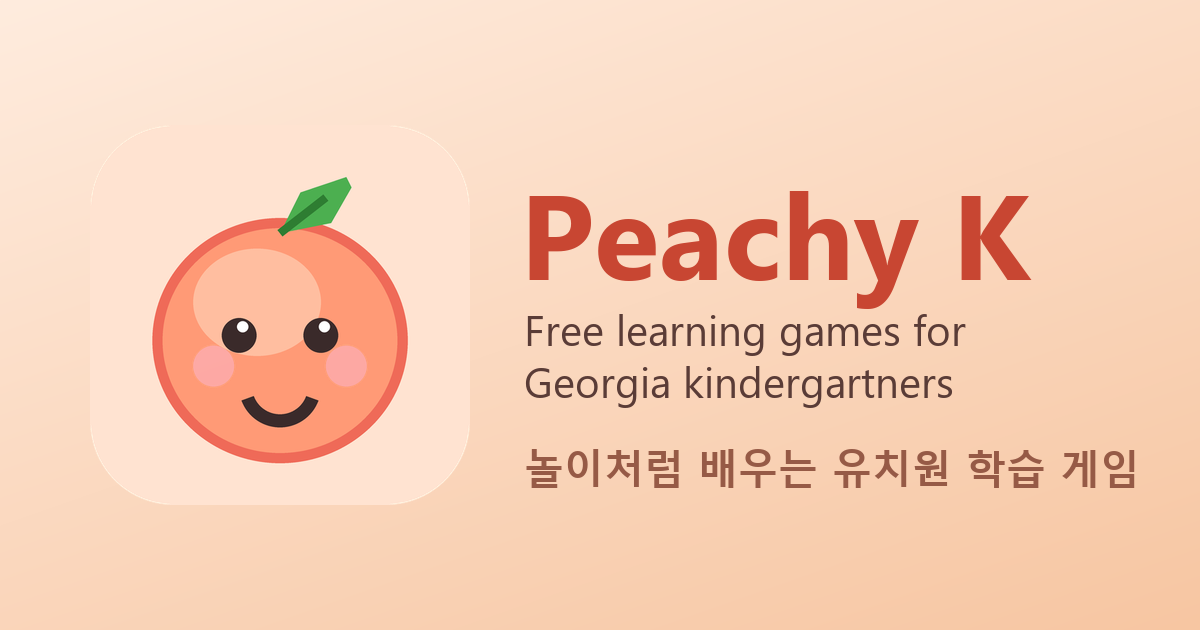
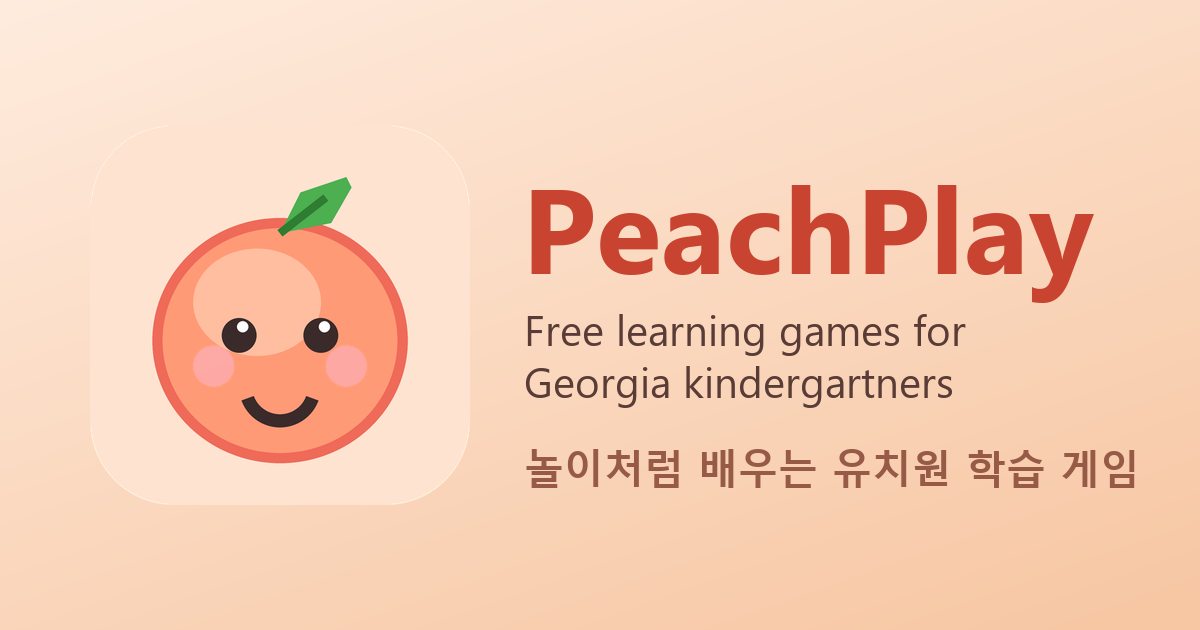
Update site

Changed region(s): [[0.4317, 0.2714, 0.925, 0.5127]]

diff --git a/index.html b/index.html
@@ -4,11 +4,11 @@
 <meta charset="utf-8">
 <meta name="viewport" content="width=device-width, initial-scale=1">
 <script>/* opened as an installed app: go straight to the games */try{if((window.matchMedia&&matchMedia("(display-mode: standalone)").matches)||navigator.standalone)location.replace("play/")}catch(e){}</script>
-<title>Peachy K – Free learning games for Georgia kindergartners</title>
+<title>PeachPlay – Free learning games for Georgia kindergartners</title>
 <meta name="description" content="Free, ad-free learning games for kindergartners: math, reading, writing, Georgia, science and thinking games. English and Korean. No sign-up. Open the link and play.">
 <meta name="theme-color" content="#ff9a76">
 <meta property="og:type" content="website">
-<meta property="og:title" content="Peachy K – Free learning games for Georgia kindergartners">
+<meta property="og:title" content="PeachPlay – Free learning games for Georgia kindergartners">
 <meta property="og:description" content="70+ short games for math, reading, writing, Georgia and more. English and Korean. Free, no ads, no sign-up.">
 <meta property="og:image" content="https://altair-research.github.io/peachy-k/og.png">
 <meta property="og:url" content="https://altair-research.github.io/peachy-k/">
@@ -74,7 +74,7 @@ footer{padding:30px 0 50px;text-align:center;color:var(--mute);font-size:14px}
 </head>
 <body>
 <header class="top"><div class="wrap">
-  <a class="brand" href="./"><img src="icon-192.png" alt="">Peachy K</a>
+  <a class="brand" href="./"><img src="icon-192.png" alt="">PeachPlay</a>
   <button class="lang" id="lang" aria-label="Language">한국어</button>
 </div></header>
 
@@ -85,7 +85,7 @@ footer{padding:30px 0 50px;text-align:center;color:var(--mute);font-size:14px}
     <circle cx="19" cy="40" r="4.2" fill="#ff7f8a" opacity=".55"/><circle cx="45" cy="40" r="4.2" fill="#ff7f8a" opacity=".55"/><circle cx="24" cy="34" r="3.4" fill="#3a2a2a"/><circle cx="40" cy="34" r="3.4" fill="#3a2a2a"/><circle cx="25.2" cy="32.8" r="1.1" fill="#fff"/><circle cx="41.2" cy="32.8" r="1.1" fill="#fff"/><path d="M24 43q8 9 16 0" stroke="#3a2a2a" stroke-width="2.6" fill="none" stroke-linecap="round"/></svg>
   <div>
     <h1><span class="en">Learning games that feel like play.</span><span class="ko">놀이처럼 배우는 학습 게임</span></h1>
-    <p class="lead"><span class="en">Peachy K is a free, ad-free game app for kindergartners: math, reading, writing, Georgia, science and thinking games. English and Korean, built around Georgia and Gwinnett kindergarten standards.</span><span class="ko">Peachy K는 유치원(K) 아이를 위한 무료, 광고 없는 학습 게임이에요. 수학, 읽기, 쓰기, 조지아, 과학, 두뇌 게임을 영어와 한국어로 즐길 수 있고, 조지아·Gwinnett 유치원 학습 기준을 바탕으로 만들었어요.</span></p>
+    <p class="lead"><span class="en">PeachPlay is a free, ad-free game app for kindergartners: math, reading, writing, Georgia, science and thinking games. English and Korean, built around Georgia and Gwinnett kindergarten standards.</span><span class="ko">PeachPlay는 유치원(K) 아이를 위한 무료, 광고 없는 학습 게임이에요. 수학, 읽기, 쓰기, 조지아, 과학, 두뇌 게임을 영어와 한국어로 즐길 수 있고, 조지아·Gwinnett 유치원 학습 기준을 바탕으로 만들었어요.</span></p>
     <a class="cta" href="play/">▶ <span class="en">Play now</span><span class="ko">지금 시작하기</span></a>
     <a class="cta2" href="#install"><span class="en">Add it to your home screen</span><span class="ko">홈 화면에 추가하는 방법</span></a>
     <div class="badges"><span><span class="en">Free</span><span class="ko">무료</span></span><span><span class="en">No ads</span><span class="ko">광고 없음</span></span><span><span class="en">No sign-up</span><span class="ko">가입 없음</span></span><span><span class="en">Works offline</span><span class="ko">오프라인 가능</span></span><span>English · 한국어</span></div>
@@ -141,18 +141,18 @@ footer{padding:30px 0 50px;text-align:center;color:var(--mute);font-size:14px}
 </div></section>
 
 <section><div class="wrap">
-  <div style="text-align:center"><a class="cta" href="play/">▶ <span class="en">Play Peachy K</span><span class="ko">Peachy K 시작하기</span></a></div>
-  <p class="note" style="margin-top:28px"><span class="en">Peachy K is made independently by Altair Research Lab. It is not affiliated with, endorsed by, or sponsored by Gwinnett County Public Schools, the Georgia Department of Education, or any publisher. It follows publicly available kindergarten learning standards, and every question is original. Peachy K is for practice and fun. It is not a test, a diagnosis, or an admissions tool.</span><span class="ko">Peachy K는 Altair Research Lab이 독립적으로 만들었으며 Gwinnett County Public Schools, 조지아 교육부 또는 어떤 출판사와도 관련이 없고 후원이나 승인을 받지 않았어요. 공개된 유치원 학습 기준을 참고했고 모든 문제는 직접 만든 문제예요. 연습과 놀이를 위한 앱이며 시험, 진단, 입학 선발 도구가 아니에요.</span></p>
+  <div style="text-align:center"><a class="cta" href="play/">▶ <span class="en">Play PeachPlay</span><span class="ko">PeachPlay 시작하기</span></a></div>
+  <p class="note" style="margin-top:28px"><span class="en">PeachPlay is made independently by Altair Research Lab. It is not affiliated with, endorsed by, or sponsored by Gwinnett County Public Schools, the Georgia Department of Education, or any publisher. It follows publicly available kindergarten learning standards, and every question is original. PeachPlay is for practice and fun. It is not a test, a diagnosis, or an admissions tool.</span><span class="ko">PeachPlay는 Altair Research Lab이 독립적으로 만들었으며 Gwinnett County Public Schools, 조지아 교육부 또는 어떤 출판사와도 관련이 없고 후원이나 승인을 받지 않았어요. 공개된 유치원 학습 기준을 참고했고 모든 문제는 직접 만든 문제예요. 연습과 놀이를 위한 앱이며 시험, 진단, 입학 선발 도구가 아니에요.</span></p>
 </div></section>
 </main>
 
-<footer><div class="wrap">© 2026 Altair Research Lab · Peachy K · <a href="privacy.html"><span class="en">Privacy</span><span class="ko">개인정보</span></a> · <a href="terms.html"><span class="en">Terms</span><span class="ko">약관</span></a></div></footer>
+<footer><div class="wrap">© 2026 Altair Research Lab · PeachPlay · <a href="privacy.html"><span class="en">Privacy</span><span class="ko">개인정보</span></a> · <a href="terms.html"><span class="en">Terms</span><span class="ko">약관</span></a></div></footer>
 
 <script>
 (function(){
   var KEY='peachy-landing-lang',root=document.documentElement,btn=document.getElementById('lang'),lang='en';
   try{var s=localStorage.getItem(KEY);if(s)lang=s;else if((navigator.language||'').toLowerCase().indexOf('ko')===0)lang='ko'}catch(e){}
-  function apply(){root.lang=lang;btn.textContent=lang==='en'?'한국어':'English';document.title=lang==='en'?'Peachy K – Free learning games for Georgia kindergartners':'Peachy K – 조지아 유치원 아이를 위한 무료 학습 게임'}
+  function apply(){root.lang=lang;btn.textContent=lang==='en'?'한국어':'English';document.title=lang==='en'?'PeachPlay – Free learning games for Georgia kindergartners':'PeachPlay – 조지아 유치원 아이를 위한 무료 학습 게임'}
   btn.onclick=function(){lang=lang==='en'?'ko':'en';try{localStorage.setItem(KEY,lang)}catch(e){}apply()};
   apply();
   var url=document.getElementById('shareUrl'),msg=document.getElementById('copied');
@@ -165,7 +165,7 @@ footer{padding:30px 0 50px;text-align:center;color:var(--mute);font-size:14px}
   };
   url.onfocus=function(){url.select()};
   var sb=document.getElementById('shareBtn');
-  if(navigator.share){sb.hidden=false;sb.onclick=function(){navigator.share({title:'Peachy K',text:lang==='en'?'Free learning games for kindergartners':'유치원 아이를 위한 무료 학습 게임',url:url.value}).catch(function(){})}}
+  if(navigator.share){sb.hidden=false;sb.onclick=function(){navigator.share({title:'PeachPlay',text:lang==='en'?'Free learning games for kindergartners':'유치원 아이를 위한 무료 학습 게임',url:url.value}).catch(function(){})}}
 })();
 </script>
 </body>

diff --git a/terms.html b/terms.html
@@ -3,8 +3,8 @@
 <head>
 <meta charset="utf-8">
 <meta name="viewport" content="width=device-width, initial-scale=1">
-<title>Terms of Use – Peachy K</title>
-<meta name="description" content="Peachy K terms of use: free educational games, provided as is, independent from any school district.">
+<title>Terms of Use – PeachPlay</title>
+<meta name="description" content="PeachPlay terms of use: free educational games, provided as is, independent from any school district.">
 <meta name="theme-color" content="#ff9a76">
 <link rel="icon" href="icon.svg" type="image/svg+xml">
 <link rel="apple-touch-icon" href="apple-touch-icon.png">
@@ -34,7 +34,7 @@ footer{padding:24px 0 50px;text-align:center;color:var(--mute);font-size:14px}
 </head>
 <body>
 <header class="top"><div class="wrap">
-  <a class="brand" href="./"><img src="icon-192.png" alt="">Peachy K</a>
+  <a class="brand" href="./"><img src="icon-192.png" alt="">PeachPlay</a>
   <button class="lang" id="lang" aria-label="Language">한국어</button>
 </div></header>
 
@@ -42,11 +42,11 @@ footer{padding:24px 0 50px;text-align:center;color:var(--mute);font-size:14px}
 
 <div class="en">
 <h1>Terms of Use</h1>
-<p class="meta">Effective October 11, 2026 · Peachy K, operated by Altair Research Lab</p>
+<p class="meta">Effective October 11, 2026 · PeachPlay, operated by Altair Research Lab</p>
 <p class="warn">Plain-language terms written by the app maker. They are not legal advice and have not been reviewed by a lawyer.</p>
 
-<h2>Using Peachy K</h2>
-<p>Peachy K is a free set of learning games for young children, meant to be used with a parent or guardian nearby. By using it you agree to these terms. If you do not agree, please do not use it.</p>
+<h2>Using PeachPlay</h2>
+<p>PeachPlay is a free set of learning games for young children, meant to be used with a parent or guardian nearby. By using it you agree to these terms. If you do not agree, please do not use it.</p>
 
 <h2>Practice, not a test</h2>
 <ul>
@@ -55,7 +55,7 @@ footer{padding:24px 0 50px;text-align:center;color:var(--mute);font-size:14px}
 </ul>
 
 <h2>Independent from schools</h2>
-<p>Peachy K is made independently by Altair Research Lab. It is not affiliated with, endorsed by, or sponsored by Gwinnett County Public Schools, the Georgia Department of Education, or any publisher. Standards are referred to only to describe what the games practice. Names and marks belong to their owners.</p>
+<p>PeachPlay is made independently by Altair Research Lab. It is not affiliated with, endorsed by, or sponsored by Gwinnett County Public Schools, the Georgia Department of Education, or any publisher. Standards are referred to only to describe what the games practice. Names and marks belong to their owners.</p>
 
 <h2>Your data and backups</h2>
 <p>Progress is stored only on your device (see the <a href="privacy.html">Privacy Policy</a>). You are responsible for your device and for saving backups if you want to keep progress. Clearing browser data, a device change or a browser problem can erase it, and we cannot recover it.</p>
@@ -72,11 +72,11 @@ footer{padding:24px 0 50px;text-align:center;color:var(--mute);font-size:14px}
 
 <div class="ko">
 <h1>이용 약관</h1>
-<p class="meta">시행일 2026년 10월 11일 · Peachy K (운영: Altair Research Lab)</p>
+<p class="meta">시행일 2026년 10월 11일 · PeachPlay (운영: Altair Research Lab)</p>
 <p class="warn">앱 제작자가 쉽게 풀어 쓴 약관이에요. 법률 자문이 아니며 변호사의 검토를 받지 않았어요.</p>
 
-<h2>Peachy K 사용</h2>
-<p>Peachy K는 어린아이를 위한 무료 학습 게임이며, 보호자가 곁에 있는 상태에서 쓰도록 만들었어요. 사용하면 이 약관에 동의한 것으로 봅니다. 동의하지 않으면 사용하지 말아 주세요.</p>
+<h2>PeachPlay 사용</h2>
+<p>PeachPlay는 어린아이를 위한 무료 학습 게임이며, 보호자가 곁에 있는 상태에서 쓰도록 만들었어요. 사용하면 이 약관에 동의한 것으로 봅니다. 동의하지 않으면 사용하지 말아 주세요.</p>
 
 <h2>연습이지 시험이 아니에요</h2>
 <ul>
@@ -85,7 +85,7 @@ footer{padding:24px 0 50px;text-align:center;color:var(--mute);font-size:14px}
 </ul>
 
 <h2>학교와는 별개예요</h2>
-<p>Peachy K는 Altair Research Lab이 독립적으로 만들었어요. Gwinnett County Public Schools, Georgia Department of Education, 어떤 출판사와도 제휴·승인·후원 관계가 없어요. 교육 기준은 게임이 무엇을 연습하는지 설명할 때만 언급해요. 이름과 상표는 각 소유자의 것이에요.</p>
+<p>PeachPlay는 Altair Research Lab이 독립적으로 만들었어요. Gwinnett County Public Schools, Georgia Department of Education, 어떤 출판사와도 제휴·승인·후원 관계가 없어요. 교육 기준은 게임이 무엇을 연습하는지 설명할 때만 언급해요. 이름과 상표는 각 소유자의 것이에요.</p>
 
 <h2>데이터와 백업</h2>
 <p>기록은 기기에만 저장돼요(<a href="privacy.html">개인정보 처리방침</a> 참고). 기기 관리와, 기록을 보관하려면 백업을 저장하는 일은 이용자의 몫이에요. 브라우저 데이터 삭제, 기기 교체, 브라우저 문제로 기록이 지워질 수 있고 저희가 복구할 수 없어요.</p>
@@ -103,13 +103,13 @@ footer{padding:24px 0 50px;text-align:center;color:var(--mute);font-size:14px}
 <p><a href="privacy.html"><span class="en">Privacy Policy</span><span class="ko">개인정보 처리방침</span></a> · <a href="./"><span class="en">Home</span><span class="ko">처음으로</span></a></p>
 </div></main>
 
-<footer><div class="wrap">© 2026 Altair Research Lab · Peachy K</div></footer>
+<footer><div class="wrap">© 2026 Altair Research Lab · PeachPlay</div></footer>
 
 <script>
 (function(){
   var KEY='peachy-landing-lang',root=document.documentElement,btn=document.getElementById('lang'),lang='en';
   try{var s=localStorage.getItem(KEY);if(s)lang=s;else if((navigator.language||'').toLowerCase().indexOf('ko')===0)lang='ko'}catch(e){}
-  function apply(){root.lang=lang;btn.textContent=lang==='en'?'한국어':'English';document.title=lang==='en'?'Terms of Use – Peachy K':'이용 약관 – Peachy K'}
+  function apply(){root.lang=lang;btn.textContent=lang==='en'?'한국어':'English';document.title=lang==='en'?'Terms of Use – PeachPlay':'이용 약관 – PeachPlay'}
   btn.onclick=function(){lang=lang==='en'?'ko':'en';try{localStorage.setItem(KEY,lang)}catch(e){}apply()};
   apply();
 })();

diff --git a/privacy.html b/privacy.html
@@ -3,8 +3,8 @@
 <head>
 <meta charset="utf-8">
 <meta name="viewport" content="width=device-width, initial-scale=1">
-<title>Privacy Policy – Peachy K</title>
-<meta name="description" content="Peachy K privacy policy: progress stays on your device, no accounts, no ads, no tracking.">
+<title>Privacy Policy – PeachPlay</title>
+<meta name="description" content="PeachPlay privacy policy: progress stays on your device, no accounts, no ads, no tracking.">
 <meta name="theme-color" content="#ff9a76">
 <link rel="icon" href="icon.svg" type="image/svg+xml">
 <link rel="apple-touch-icon" href="apple-touch-icon.png">
@@ -34,7 +34,7 @@ footer{padding:24px 0 50px;text-align:center;color:var(--mute);font-size:14px}
 </head>
 <body>
 <header class="top"><div class="wrap">
-  <a class="brand" href="./"><img src="icon-192.png" alt="">Peachy K</a>
+  <a class="brand" href="./"><img src="icon-192.png" alt="">PeachPlay</a>
   <button class="lang" id="lang" aria-label="Language">한국어</button>
 </div></header>
 
@@ -42,10 +42,10 @@ footer{padding:24px 0 50px;text-align:center;color:var(--mute);font-size:14px}
 
 <div class="en">
 <h1>Privacy Policy</h1>
-<p class="meta">Effective October 11, 2026 · Peachy K, operated by Altair Research Lab</p>
+<p class="meta">Effective October 11, 2026 · PeachPlay, operated by Altair Research Lab</p>
 <p class="warn">Plain-language summary written by the app maker. It is not legal advice and has not been reviewed by a lawyer.</p>
 
-<div class="box"><b>In short:</b> Peachy K has no accounts, no ads and no tracking. Your child's progress is saved only in this device's browser. We do not receive it.</div>
+<div class="box"><b>In short:</b> PeachPlay has no accounts, no ads and no tracking. Your child's progress is saved only in this device's browser. We do not receive it.</div>
 
 <h2>What stays on your device</h2>
 <ul>
@@ -76,7 +76,7 @@ footer{padding:24px 0 50px;text-align:center;color:var(--mute);font-size:14px}
 </ul>
 
 <h2>Children</h2>
-<p>Peachy K is meant to be used by children with a parent or guardian nearby. Grown-up features are in the "For grown-ups" screen. We do not knowingly collect personal information from children. If you believe we received a child's information, write to us and we will delete it.</p>
+<p>PeachPlay is meant to be used by children with a parent or guardian nearby. Grown-up features are in the "For grown-ups" screen. We do not knowingly collect personal information from children. If you believe we received a child's information, write to us and we will delete it.</p>
 
 <h2>Your choices</h2>
 <p>You can delete everything at any time from the app or by clearing site data in your browser. Since we hold no copy, there is nothing for us to delete on our side except e-mails you sent us, which we delete on request.</p>
@@ -87,10 +87,10 @@ footer{padding:24px 0 50px;text-align:center;color:var(--mute);font-size:14px}
 
 <div class="ko">
 <h1>개인정보 처리방침</h1>
-<p class="meta">시행일 2026년 10월 11일 · Peachy K (운영: Altair Research Lab)</p>
+<p class="meta">시행일 2026년 10월 11일 · PeachPlay (운영: Altair Research Lab)</p>
 <p class="warn">앱 제작자가 쉽게 풀어 쓴 안내문이에요. 법률 자문이 아니며 변호사의 검토를 받지 않았어요.</p>
 
-<div class="box"><b>한마디로:</b> Peachy K에는 계정, 광고, 추적이 없어요. 아이의 기록은 이 기기의 브라우저에만 저장되고, 저희는 받지 않아요.</div>
+<div class="box"><b>한마디로:</b> PeachPlay에는 계정, 광고, 추적이 없어요. 아이의 기록은 이 기기의 브라우저에만 저장되고, 저희는 받지 않아요.</div>
 
 <h2>기기 안에만 저장되는 것</h2>
 <ul>
@@ -121,7 +121,7 @@ footer{padding:24px 0 50px;text-align:center;color:var(--mute);font-size:14px}
 </ul>
 
 <h2>아이들</h2>
-<p>Peachy K는 보호자가 곁에 있는 상태에서 쓰도록 만들었어요. 보호자용 기능은 '보호자용' 화면에 있어요. 아이의 개인정보를 알면서 수집하지 않아요. 아이 정보가 저희에게 전달됐다고 생각되면 알려 주세요. 삭제할게요.</p>
+<p>PeachPlay는 보호자가 곁에 있는 상태에서 쓰도록 만들었어요. 보호자용 기능은 '보호자용' 화면에 있어요. 아이의 개인정보를 알면서 수집하지 않아요. 아이 정보가 저희에게 전달됐다고 생각되면 알려 주세요. 삭제할게요.</p>
 
 <h2>선택권</h2>
 <p>앱에서 또는 브라우저 사이트 데이터를 지워서 언제든 모두 삭제할 수 있어요. 저희에게는 사본이 없으므로, 보내 주신 이메일 외에 저희 쪽에서 지울 것은 없고 이메일도 요청하시면 삭제해요.</p>
@@ -133,13 +133,13 @@ footer{padding:24px 0 50px;text-align:center;color:var(--mute);font-size:14px}
 <p><a href="terms.html"><span class="en">Terms of Use</span><span class="ko">이용 약관</span></a> · <a href="./"><span class="en">Home</span><span class="ko">처음으로</span></a></p>
 </div></main>
 
-<footer><div class="wrap">© 2026 Altair Research Lab · Peachy K</div></footer>
+<footer><div class="wrap">© 2026 Altair Research Lab · PeachPlay</div></footer>
 
 <script>
 (function(){
   var KEY='peachy-landing-lang',root=document.documentElement,btn=document.getElementById('lang'),lang='en';
   try{var s=localStorage.getItem(KEY);if(s)lang=s;else if((navigator.language||'').toLowerCase().indexOf('ko')===0)lang='ko'}catch(e){}
-  function apply(){root.lang=lang;btn.textContent=lang==='en'?'한국어':'English';document.title=lang==='en'?'Privacy Policy – Peachy K':'개인정보 처리방침 – Peachy K'}
+  function apply(){root.lang=lang;btn.textContent=lang==='en'?'한국어':'English';document.title=lang==='en'?'Privacy Policy – PeachPlay':'개인정보 처리방침 – PeachPlay'}
   btn.onclick=function(){lang=lang==='en'?'ko':'en';try{localStorage.setItem(KEY,lang)}catch(e){}apply()};
   apply();
 })();

diff --git a/play/backup.js b/play/backup.js
@@ -8,7 +8,7 @@ const BK = {
   save: B('Save backup file', '백업 파일 저장'), copy: B('Copy backup code', '백업 코드 복사'), copied: B('Copied!', '복사됐어요!'),
   load: B('Restore from file', '파일에서 복원'), paste: B('Restore from code', '코드로 복원'), pasteHint: B('Paste backup code here', '백업 코드를 여기에 붙여넣기'),
   ask: B('Replace ALL progress on this device with the backup? This cannot be undone.', '이 기기의 모든 기록을 백업 내용으로 바꿀까요? 되돌릴 수 없어요.'),
-  ok: B('Restored! Reloading…', '복원했어요! 다시 불러옵니다…'), bad: B('That does not look like a Peachy backup.', 'Peachy 백업이 아니에요.'), full: B('Could not save on this device (storage full or blocked).', '이 기기에 저장하지 못했어요(저장 공간 부족 또는 차단).'),
+  ok: B('Restored! Reloading…', '복원했어요! 다시 불러옵니다…'), bad: B('That does not look like a PeachPlay backup.', 'PeachPlay 백업이 아니에요.'), full: B('Could not save on this device (storage full or blocked).', '이 기기에 저장하지 못했어요(저장 공간 부족 또는 차단).'),
   fbTitle: B('Send feedback', '의견 보내기'), fbNote: B('Opens your e-mail app with a draft to the app maker. Nothing is sent until you press Send in your mail app. No tracking.', '이메일 앱에 초안이 열려요. 메일 앱에서 보내기를 누르기 전에는 아무것도 전송되지 않고, 추적도 없어요.'),
   fbKind: B('Type', '종류'), kinds: [B('Bug / something broke', '오류 / 고장'), B('Idea / request', '아이디어 / 요청'), B('Question', '질문'), B('Other', '기타')],
   fbMsg: B('What happened? What would you like?', '무슨 일이 있었나요? 바라는 점은요?'),
@@ -40,7 +40,7 @@ function backupApply(o, say2) {
   } catch (e) { console.warn('[peachy] restore failed', e); say2(L(BK.full)); }
 }
 function feedbackBody(msg, dev, prog) {
-  const lines = [msg.trim(), '', '---', `Peachy K v${APP_VERSION} (${APP_BUILD})`];
+  const lines = [msg.trim(), '', '---', `PeachPlay v${APP_VERSION} (${APP_BUILD})`];
   if (dev) lines.push(`Browser: ${navigator.userAgent}`, `Screen: ${screen.width}x${screen.height} @${window.devicePixelRatio || 1}, window ${innerWidth}x${innerHeight}`, `Language: ${navigator.language} / app ${S.lang}`, `Installed app: ${(matchMedia('(display-mode: standalone)').matches || navigator.standalone) ? 'yes' : 'no'}`);
   if (prog) { let r = 0, w = 0, g = 0; Object.values(S.stats || {}).forEach(s => { r += s.right; w += s.wrong; if (s.right + s.wrong) g++; }); lines.push(`Progress (current child): ${g} games tried, ${r} right, ${w} missed`); }
   return lines.join('\n');
@@ -75,6 +75,6 @@ function backupBind() {
   $('#bkFile').onchange = (e) => { const f = e.target.files[0]; if (!f) return; if (f.size > 5e6) return msg(L(BK.bad)); const r = new FileReader(); r.onload = () => restore(r.result); r.onerror = () => msg(L(BK.bad)); r.readAsText(f); e.target.value = ''; };
   $('#bkPaste').onclick = () => restore($('#bkText').value);
   const draft = () => `${L(BK.kinds[+$('#fbKind').value])}\n\n${feedbackBody($('#fbMsg').value, $('#fbDev').checked, $('#fbProg').checked)}`;
-  $('#fbSend').onclick = () => { location.href = `mailto:${FEEDBACK_EMAIL}?subject=${encodeURIComponent('Peachy K feedback v' + APP_VERSION)}&body=${encodeURIComponent(draft())}`; };
+  $('#fbSend').onclick = () => { location.href = `mailto:${FEEDBACK_EMAIL}?subject=${encodeURIComponent('PeachPlay feedback v' + APP_VERSION)}&body=${encodeURIComponent(draft())}`; };
   $('#fbCopy').onclick = () => copyText(draft(), ok => msg(ok ? L(BK.copied) : ''));
 }

diff --git a/play/faq.js b/play/faq.js
@@ -1,7 +1,7 @@
 'use strict';
 // Help & Q&A screen (bilingual). Keep answers short and honest; update when features change.
 const FAQ = [
-  [B('What is Peachy K?', 'Peachy K는 무엇인가요?'), B('Free, ad-free learning games for Georgia kindergarteners. The topics follow the Georgia / Gwinnett kindergarten standards (AKS). It is made independently and is not affiliated with Gwinnett County Public Schools or any textbook publisher.', '조지아 유치원(K) 아이를 위한 무료, 광고 없는 학습 게임이에요. 조지아/Gwinnett K 표준(AKS) 주제를 따라요. 독립적으로 만들었고 Gwinnett County Public Schools나 교재 출판사와 관련이 없어요.'), 'start'],
+  [B('What is PeachPlay?', 'PeachPlay는 무엇인가요?'), B('Free, ad-free learning games for Georgia kindergarteners. The topics follow the Georgia / Gwinnett kindergarten standards (AKS). It is made independently and is not affiliated with Gwinnett County Public Schools or any textbook publisher.', '조지아 유치원(K) 아이를 위한 무료, 광고 없는 학습 게임이에요. 조지아/Gwinnett K 표준(AKS) 주제를 따라요. 독립적으로 만들었고 Gwinnett County Public Schools나 교재 출판사와 관련이 없어요.'), 'start'],
   [B('What does "Surprise me!" do?', '"Surprise me!"는 무엇을 하나요?'), B('It plays a mix of different games, 3 questions each, one after another. If there are Peachy\'s picks, they show up more often. It keeps going until you press the Home button. It does not give stickers (stickers come from finishing one full round of a game).', '여러 게임을 섞어서 게임마다 3문제씩 차례로 풀게 해요. 피치의 추천 게임이 있으면 더 자주 나와요. 홈 버튼을 누를 때까지 계속돼요. 스티커는 주지 않아요(스티커는 한 게임을 한 판 끝까지 했을 때 받아요).'), 'play'],
   [B('What are peaches and baskets?', '복숭아와 바구니는 무엇인가요?'), B('You win a 🍑 peach each time you answer right on the first try. 10 peaches fill a 🧺 basket. They are shown at the top of the screen.', '처음 시도에 맞힐 때마다 🍑 복숭아를 받아요. 복숭아 10개가 모이면 🧺 바구니 1개가 돼요. 화면 맨 위에 보여요.'), 'play'],
   [B('How do I get stickers?', '스티커는 어떻게 받나요?'), B('Finish one full round (10 questions) of a game and you win a new sticker. There are 40 stickers. Tap the 🏆 at the top to see your sticker book.', '한 게임을 한 판(10문제) 끝까지 하면 새 스티커를 받아요. 스티커는 40종이에요. 맨 위의 🏆를 누르면 스티커북을 볼 수 있어요.'), 'play'],

diff --git a/play/profiles.js b/play/profiles.js
@@ -13,7 +13,7 @@ const PT = {
   colSubj: B('Subject', '과목'), colNow: B('Last 7', '최근 7일'), colPrev: B('Before', '그 전'), colTrend: B('Trend', '변화'),
   none: B('No answers yet. Play a game and the chart will fill in.', '아직 기록이 없어요. 게임을 하면 그래프가 채워져요.'),
   note: B('These numbers only count answers in this app on this device. They are a practice record, not a test score. A subject needs 5+ answers in a week to show a trend.', '이 앱에서 이 기기로 푼 문제만 센 연습 기록이에요. 시험 점수가 아니에요. 한 과목에서 일주일에 5문제 이상 풀어야 변화가 보여요.'),
-  shareT: B('Share Peachy K', 'Peachy K 공유하기'), shareN: B('Copy the link and send it to other parents or teachers.', '링크를 복사해서 다른 부모님이나 선생님께 보내 주세요.'), copy: B('Copy link', '링크 복사'), copied: B('Link copied!', '링크가 복사됐어요!'),
+  shareT: B('Share PeachPlay', 'PeachPlay 공유하기'), shareN: B('Copy the link and send it to other parents or teachers.', '링크를 복사해서 다른 부모님이나 선생님께 보내 주세요.'), copy: B('Copy link', '링크 복사'), copied: B('Link copied!', '링크가 복사됐어요!'),
   back: B('Back', '뒤로'), who: B('Playing now', '지금 하는 아이'),
   cheer0: B('Play a game to start your streak!', '게임을 하면 연속 기록이 시작돼요!'), cheerN: (n) => B(`${n} days in a row. Great job!`, `${n}일 연속! 잘했어요!`)
 };

diff --git a/play/sw.js b/play/sw.js
@@ -1,5 +1,5 @@
 // Offline cache so the games work on school Chromebooks without Wi-Fi after the first visit.
-const CACHE = 'peachy-k-v35';
+const CACHE = 'peachplay-v36';
 const FILES = ['./', 'index.html', 'icon-192.png', 'icon-512.png', 'apple-touch-icon.png', 'style.css', 'version.js', 'ui.css', 'blockpuzzle.css', 'beta.css', 'backup.js', 'pwa.js', 'i18n.js', 'core.js', 'games-math.js', 'games-read.js', 'games-write.js', 'games-read2.js', 'games-math2.js', 'games-sci2.js', 'games-brain.js', 'games-more.js', 'games-blocks.js', 'games-blockpuzzle.js', 'games-think.js', 'games-gifted.js', 'games-ga.js', 'games-sci.js', 'report-parse.js', 'profile.js', 'faq.js', 'profiles.js', 'app.js', 'icon.svg', 'manifest.webmanifest', 'vendor/pdfjs/pdf.min.js', 'vendor/pdfjs/pdf.worker.min.js'];
 self.addEventListener('install', e => e.waitUntil(caches.open(CACHE).then(c => c.addAll(FILES)).then(() => self.skipWaiting())));
 self.addEventListener('activate', e => e.waitUntil(caches.keys().then(k => Promise.all(k.filter(x => x !== CACHE).map(x => caches.delete(x)))).then(() => self.clients.claim())));

diff --git a/play/index.html b/play/index.html
@@ -5,11 +5,11 @@
 <meta name="viewport" content="width=device-width, initial-scale=1, viewport-fit=cover">
 <meta name="mobile-web-app-capable" content="yes">
 <meta name="apple-mobile-web-app-capable" content="yes">
-<meta name="apple-mobile-web-app-title" content="Peachy K">
+<meta name="apple-mobile-web-app-title" content="PeachPlay">
 <meta name="apple-mobile-web-app-status-bar-style" content="default">
 <link rel="apple-touch-icon" href="apple-touch-icon.png">
 <meta name="theme-color" content="#ff9a76">
-<title>Peachy K</title>
+<title>PeachPlay</title>
 <link rel="manifest" href="manifest.webmanifest">
 <link rel="icon" href="icon.svg" type="image/svg+xml">
 <link rel="stylesheet" href="style.css">

diff --git a/play/i18n.js b/play/i18n.js
@@ -4,7 +4,7 @@
 const I18N = {
   en: {
     speech: 'en-US', switchTo: '한국어',
-    app: 'Peachy K', tagline: 'Georgia Kindergarten Games',
+    app: 'PeachPlay', tagline: 'Georgia Kindergarten Games',
     pick: 'Pick a game!',
     subjects: { math: 'Math', read: 'Reading', write: 'Writing', life: 'Me & My Day', create: 'Create & Imagine', gifted: 'Challenge Zone', brain: 'Brain Games', ss: 'Georgia & Our Nation', sci: 'Science' },
     right: ['Great job!', 'Awesome!', 'You did it!', 'Super!', 'Peachy!'],

diff --git a/play/version.js b/play/version.js
@@ -1,3 +1,3 @@
 // Single place for the app version. Bump it with every publish so it is easy to see whether a device has the newest build.
-const APP_VERSION = '2.4', APP_BUILD = '2026-10-11';
-const verText = () => `Peachy K v${APP_VERSION} · ${APP_BUILD}`;
+const APP_VERSION = '2.5', APP_BUILD = '2026-10-11';
+const verText = () => `PeachPlay v${APP_VERSION} · ${APP_BUILD}`;
